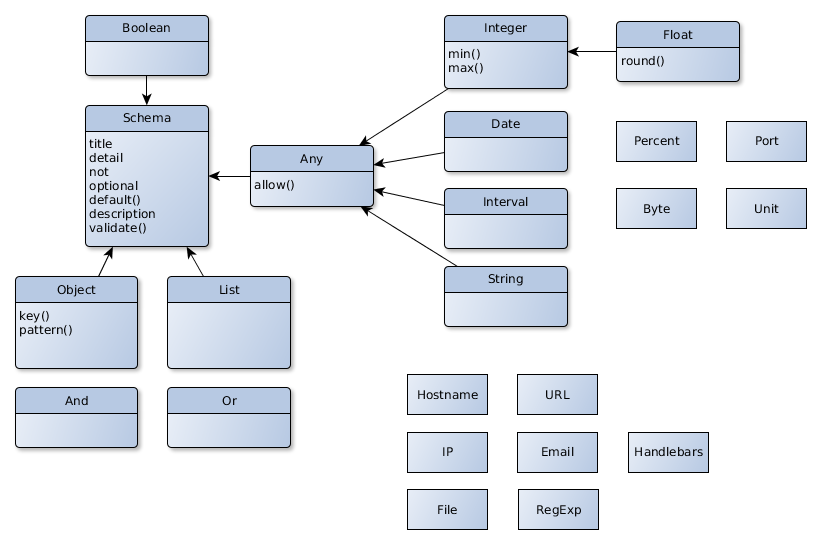
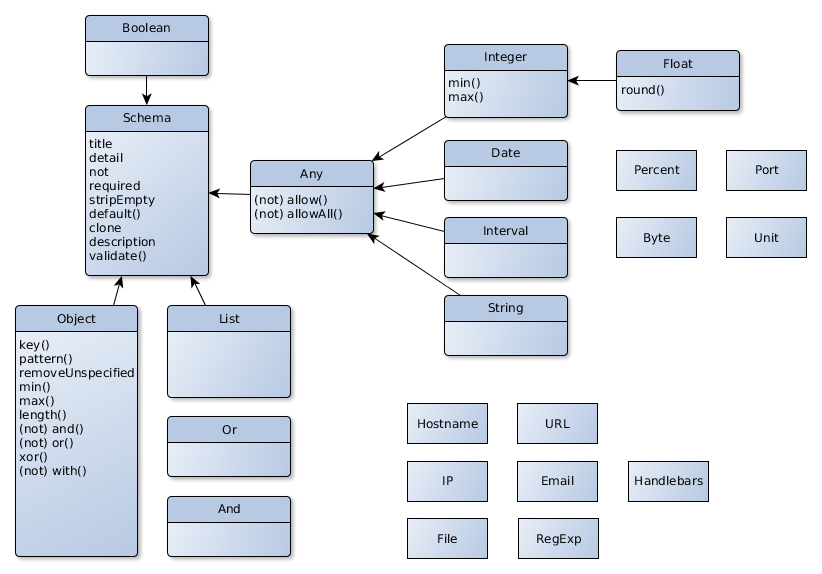
Add min max and length to objects

diff --git a/test/mocha/type/Object.js b/test/mocha/type/Object.js
@@ -29,6 +29,12 @@ describe('type object', () => {
     helper.validateFail(schema, data, undefined, done)
   })
 
+  it('should describe', () => {
+    const schema = new MySchema()
+    // use schema
+    expect(helper.description(schema)).to.equal('Any data type. It is optional and must not be set. A data object is needed.')
+  })
+
   describe('optional/default', () => {
 
     it('should work with required', (done) => {
@@ -112,10 +118,113 @@ A data object is needed. The following keys have a special format:\n\
 
   })
 
-  it('should describe', () => {
-    const schema = new MySchema()
-    // use schema
-    expect(helper.description(schema)).to.equal('Any data type. It is optional and must not be set. A data object is needed.')
+  describe('removeUnspecified', () => {
+
+    it('should work with defined keys', (done) => {
+      const data = {a: 1, b: 2, c: 3}
+      const schema = new MySchema().removeUnspecified
+      .key('a', new validator.Any())
+      // use schema
+      helper.validateOk(schema, data, (res) => {
+        expect(res).deep.equal({a: 1})
+      }, done)
+    })
+
+    it('should work with pattern', (done) => {
+      const data = {a: 1, b: 2, c: 3}
+      const schema = new MySchema().removeUnspecified
+      .pattern(/[ab]/, new validator.Any())
+      // use schema
+      helper.validateOk(schema, data, (res) => {
+        expect(res).deep.equal({a: 1, b: 2})
+      }, done)
+    })
+
+    it('should describe', () => {
+      const schema = new MySchema().removeUnspecified
+      .key('a', new validator.Any())
+      // use schema
+      expect(helper.description(schema)).to.equal('Any data type. \
+It is optional and must not be set. A data object is needed. \
+The following keys have a special format:\n\
+- `a`: Any data type. It is optional and must not be set.\n\
+\n\
+Keys not defined with the rules before will be removed.')
+    })
+
+  })
+
+  describe('length', () => {
+
+    it('should work with min', (done) => {
+      const data = {a: 1, b: 2, c: 3}
+      const schema = new MySchema().min(2)
+      // use schema
+      helper.validateOk(schema, data, (res) => {
+        expect(res).deep.equal(data)
+      }, done)
+    })
+
+    it('should fail with min', (done) => {
+      const data = {a: 1, b: 2, c: 3}
+      const schema = new MySchema().min(5)
+      // use schema
+      helper.validateFail(schema, data, undefined, done)
+    })
+
+    it('should work with max', (done) => {
+      const data = {a: 1, b: 2, c: 3}
+      const schema = new MySchema().max(5)
+      // use schema
+      helper.validateOk(schema, data, (res) => {
+        expect(res).deep.equal(data)
+      }, done)
+    })
+
+    it('should fail with max', (done) => {
+      const data = {a: 1, b: 2, c: 3}
+      const schema = new MySchema().max(2)
+      // use schema
+      helper.validateFail(schema, data, undefined, done)
+    })
+
+    it('should work with length', (done) => {
+      const data = {a: 1, b: 2, c: 3}
+      const schema = new MySchema().length(3)
+      // use schema
+      helper.validateOk(schema, data, (res) => {
+        expect(res).deep.equal(data)
+      }, done)
+    })
+
+    it('should fail with length', (done) => {
+      const data = {a: 1, b: 2, c: 3}
+      const schema = new MySchema().length(2)
+      // use schema
+      helper.validateFail(schema, data, undefined, done)
+    })
+
+    it('should work with min and max', (done) => {
+      const data = {a: 1, b: 2, c: 3}
+      const schema = new MySchema().min(2).max(5)
+      // use schema
+      helper.validateOk(schema, data, (res) => {
+        expect(res).deep.equal(data)
+      }, done)
+    })
+
+    it('should describe length', () => {
+      const schema = new MySchema().length(4)
+      // use schema
+      expect(helper.description(schema)).to.be.a('string')
+    })
+
+    it('should describe min and max', () => {
+      const schema = new MySchema().min(2).max(5)
+      // use schema
+      expect(helper.description(schema)).to.be.a('string')
+    })
+
   })
 
 })

diff --git a/src/type/Object.js b/src/type/Object.js
@@ -11,15 +11,21 @@ class ObjectSchema extends Schema {
 
   _keys: Map<string, Schema>
   _pattern: Map<RegExp, Schema>
+  _removeUnspecified: bool
+  _min: number
+  _max: number
 
   constructor(title?: string, detail?: string) {
     super(title, detail)
     // init settings
     this._keys = new Map()
     this._pattern = new Map()
+    this._removeUnspecified = false
     // add check rules
     this._rules.add([this._typeDescriptor, this._typeValidator])
     this._rules.add([this._keysDescriptor, this._keysValidator])
+    this._rules.add([this._removeUnspecifiedDescriptor, this._removeUnspecifiedValidator])
+    this._rules.add([this._lengthDescriptor, this._lengthValidator])
   }
 
   // setup schema
@@ -47,6 +53,40 @@ class ObjectSchema extends Schema {
       throw new Error('Pattern without schema can´t be defined.')
     }
     this._negate = false
+    return this
+  }
+
+  get removeUnspecified(): this {
+    this._removeUnspecified = !this._negate
+    this._negate = false
+    return this
+  }
+
+  min(limit: number): this {
+    const int = parseInt(limit, 10)
+    if (int < 0) throw new Error('Length for min() has to be positive')
+    if (this._max && int > this._max) {
+      throw new Error('Length for min() should be equal or below max')
+    }
+    this._min = int
+    return this
+  }
+
+  max(limit: number): this {
+    const int = parseInt(limit, 10)
+    if (int < 0) throw new Error('Length for max() has to be positive')
+    if (this._min && int < this._min) {
+      throw new Error('Length for max() should be equal or above min')
+    }
+    this._max = int
+    return this
+  }
+
+  length(limit: number): this {
+    const int = parseInt(limit, 10)
+    if (int < 0) throw new Error('Length for length() has to be positive')
+    this._min = int
+    this._max = int
     return this
   }
 
@@ -98,7 +138,11 @@ class ObjectSchema extends Schema {
           }
         }
         // not specified keep it without check
-        if (!found) sum[key] = data.value[key]
+        if (!found) {
+          if (!data.temp.unchecked) data.temp.unchecked = []
+          data.temp.unchecked[key] = true
+          sum[key] = data.value[key]
+        }
       }
     })
     return Promise.all(checks)
@@ -110,6 +154,42 @@ class ObjectSchema extends Schema {
       data.value = sum
       return Promise.resolve()
     })
+  }
+
+  _removeUnspecifiedDescriptor() {
+    return this._removeUnspecified ? 'Keys not defined with the rules before will be removed. ' : ''
+  }
+
+  _removeUnspecifiedValidator(data: SchemaData): Promise<void> {
+    if (this._removeUnspecified) {
+      for (const key in data.temp.unchecked) if (key) delete data.value[key]
+    }
+    return Promise.resolve()
+  }
+
+  _lengthDescriptor() {
+    if (this._min && this._max) {
+      return this._min === this._max ? `The object has to contain exactly ${this._min} elements. `
+      : `The object needs between ${this._min} and ${this._max} elements. `
+    }
+    if (this._min) return `The object needs at least ${this._min} elements. `
+    if (this._max) return `The object allows up to ${this._min} elements. `
+    return ''
+  }
+
+  _lengthValidator(data: SchemaData): Promise<void> {
+    const num = Object.keys(data.value).length
+    if (this._min && num < this._min) {
+      return Promise.reject(new SchemaError(this, data,
+      `The object has a length of ${num} elements. \
+This is too less, at least ${this._min} are needed.`))
+    }
+    if (this._max && num > this._max) {
+      return Promise.reject(new SchemaError(this, data,
+      `The object has a length of ${num} elements. \
+This is too much, not more than ${this._max} are allowed.`))
+    }
+    return Promise.resolve()
   }
 
 }

diff --git a/src/Schema.js b/src/Schema.js
@@ -38,12 +38,14 @@ class Schema {
   }
 
   get required(): this {
-    this._required = true
+    this._required = !this._negate
+    this._negate = false
     return this
   }
 
   get stripEmpty(): this {
-    this._stripEmpty = true
+    this._stripEmpty = !this._negate
+    this._negate = false
     return this
   }
 
@@ -53,6 +55,11 @@ class Schema {
   }
 
   // using schema
+
+  get clone(): this {
+    return this
+//    return Object.assign(Object.create(this), this)
+  }
 
   get description(): string {
     let msg = 'Any data type. '

diff --git a/src/SchemaData.js b/src/SchemaData.js
@@ -5,12 +5,14 @@ class SchemaData {
   orig: any
   source: string
   options: Object
+  temp: Object
 
   constructor(value: any, source?: string, options?: Object) {
     this.value = value
     this.orig = value
     this.source = source || '/'
     this.options = options || {}
+    this.temp = {}
   }
 
 }

diff --git a/doc/schema/object.md b/doc/schema/object.md
@@ -1,46 +1,48 @@
 # Object Schema
 
-Create a schema that matches any data type.
+Create a schema that matches any data object which contains key/value pairs.
 
-This is an universal type which may be used everywhere there no further knowledge
-of the structure is known. It can also be used to make a loose checking schema
-first and later replace it through detailed specifications.
+The values may be of any other type.
 
-## optional / not.optional
+See at [Base Schema](base.md) for the inherited methods you may call like:
+- `required`
+- `default()`
+- `stripEmpty`
 
-The value may be optional (default), meaning if no value is given it will be set
-as undefined. A value of `null` is considered as a concrete value and won´t trigger
-the optional here. The `not` negates this and makes the schema not optional.
+## key(name: string, check: Schema)
+
+Specify the schema for a specific value.
 
 ```js
-const schema = new validator.Any().not.optional
+const schema = new validator.Object()
+.key('one', new validator.Any())
 ```
 
-## default(value: any)
+## pattern(regexp: RegExp, check: Schema)
 
-The given value is used as an default if nothing is given meaning the value is set
-to `undefined`. The default value will also go through the further rules and have
-to succeed all other constraints.
-If this is used the `optional` setting don't have to be used.
+Specify the schema for all values which keys match the given pattern. Only the first
+match is used and directly specified `key` goes first, too.
 
 ```js
-const schema = new validator.Any().default(1)
+const schema = new validator.Object()
+.pattern(/number\d/, new validator.Any())
 ```
 
-## allow(value: any)
+## removeUnspecified
 
-If you specify at least one value which is allowed only the allowed values are
-possible. Therefore a deep check will be done.
+This will remove all unchecked keys from the object. So only the specified are returned.
 
 ```js
-const schema = new validator.Any().allow(5)
+const schema = new validator.Object().removeUnspecified
+.key('one', new validator.Any())
 ```
 
-## not.allow(value: any)
+It may be inverted using `not.required`.
 
-Also you may define which elements you won´t allow. If only invalid elements are
-defined all other elements are possible.
+## min(limit: number) / max(limit: number) / length(limit: number)
+
+Specifies the number of keys the object is allowed to have.
 
 ```js
-const schema = new validator.Any().not.allow(5)
+const schema = new validator.Object().min(1).max(3)
 ```

diff --git a/doc/schema/base.md b/doc/schema/base.md
@@ -12,6 +12,8 @@ the optional here. The `not` negates this and makes the schema not optional.
 const schema = new validator.Any().required
 ```
 
+It may be inverted using `not.required`.
+
 ## default(value: any)
 
 The given value is used as an default if nothing is given meaning the value is set
@@ -32,3 +34,5 @@ the default if an empty element is given.
 ```js
 const schema = new validator.Any().stripEmpty.default(3)
 ```
+
+It may be inverted using `not.stripEmpty`.

diff --git a/doc/howto.md b/doc/howto.md
@@ -1,7 +1,16 @@
 # How to check
 
+
+## Create schema
+
+It is possible to use the same schema in more than one position but you may also
+`clone` a definition and change some parts on the second position.
+
+
 ## Description
 
+
 ## Validate
+
 
 ## Options for validate
